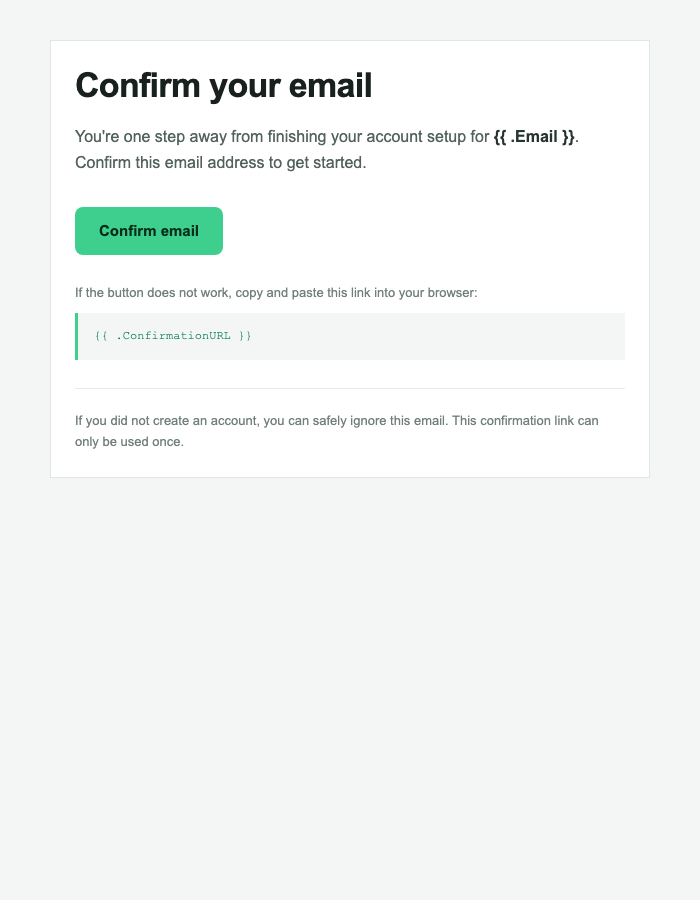
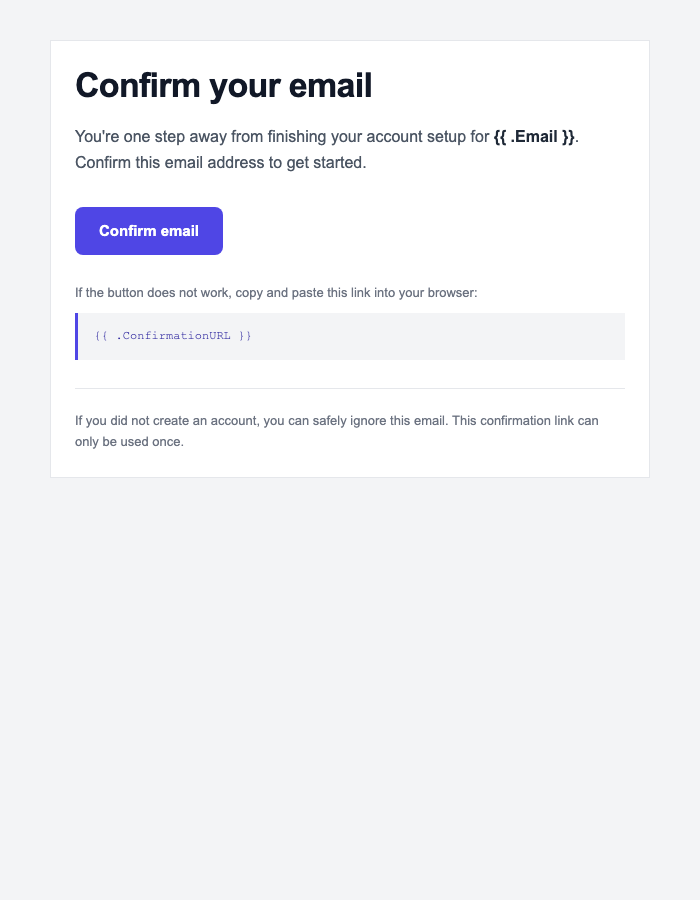
style: apply shared palette to Supabase auth templates

Changed region(s): [[0.09, 0.2178, 0.33, 0.3111], [0.09, 0.3422, 0.12, 0.4044]]

diff --git a/templates/supabase-reset-password.html b/templates/supabase-reset-password.html
@@ -58,12 +58,12 @@
     style="
       margin: 0;
       padding: 0;
-      background-color: #f3f6f5;
+      background-color: #f3f4f6;
       font-family: Arial, Helvetica, sans-serif;
       -webkit-text-size-adjust: 100%;
       -ms-text-size-adjust: 100%;
     "
-    bgcolor="#f3f6f5"
+    bgcolor="#f3f4f6"
   >
     <div
       style="
@@ -89,9 +89,9 @@
         width: 100% !important;
         min-width: 100%;
         margin: 0 auto;
-        background-color: #f3f6f5;
+        background-color: #f3f4f6;
       "
-      bgcolor="#f3f6f5"
+      bgcolor="#f3f4f6"
     >
       <tr>
         <td align="center" style="padding: 40px 16px">
@@ -113,7 +113,7 @@
               max-width: 520px;
               margin: 0 auto;
               background-color: #ffffff;
-              border: 1px solid #dfe7e3;
+              border: 1px solid #e5e7eb;
               border-radius: 16px;
               overflow: hidden;
             "
@@ -140,11 +140,11 @@
                       style="
                         width: 52px;
                         height: 52px;
-                        background-color: #e9faf2;
-                        border: 1px solid #b9ecd5;
+                        background-color: #eef2ff;
+                        border: 1px solid #c7d2fe;
                         border-radius: 50%;
                       "
-                      bgcolor="#e9faf2"
+                      bgcolor="#eef2ff"
                     >
                       <span
                         style="
@@ -152,7 +152,7 @@
                           width: 10px;
                           height: 10px;
                           margin: 0 auto;
-                          background-color: #16865a;
+                          background-color: #3730a3;
                           border-radius: 50%;
                           font-size: 0;
                           line-height: 0;
@@ -165,7 +165,7 @@
                           width: 4px;
                           height: 9px;
                           margin: -1px auto 0;
-                          background-color: #16865a;
+                          background-color: #3730a3;
                           font-size: 0;
                           line-height: 0;
                         "
@@ -178,7 +178,7 @@
                 <h1
                   style="
                     margin: 22px 0 0;
-                    color: #18211d;
+                    color: #111827;
                     font-family: Arial, Helvetica, sans-serif;
                     font-size: 30px;
                     font-weight: bold;
@@ -192,7 +192,7 @@
                 <p
                   style="
                     margin: 14px 0 0;
-                    color: #596861;
+                    color: #4b5563;
                     font-family: Arial, Helvetica, sans-serif;
                     font-size: 15px;
                     line-height: 1.6;
@@ -200,7 +200,7 @@
                   "
                 >
                   Reset requested for<br />
-                  <strong style="color: #26352e">{{ .Email }}</strong>
+                  <strong style="color: #1f2937">{{ .Email }}</strong>
                 </p>
               </td>
             </tr>
@@ -224,10 +224,10 @@
                     <td
                       width="100%"
                       align="center"
-                      bgcolor="#3ecf8e"
+                      bgcolor="#4f46e5"
                       style="
                         width: 100%;
-                        background-color: #3ecf8e;
+                        background-color: #4f46e5;
                         border-radius: 8px;
                       "
                     >
@@ -238,11 +238,11 @@
                           href="{{ .ConfirmationURL }}"
                           style="height: 50px; v-text-anchor: middle; width: 438px"
                           arcsize="16%"
-                          strokecolor="#3ecf8e"
-                          fillcolor="#3ecf8e"
+                          strokecolor="#4f46e5"
+                          fillcolor="#4f46e5"
                         >
                           <w:anchorlock />
-                          <center style="color: #052e1a; font-family: Arial, Helvetica, sans-serif; font-size: 15px; font-weight: bold">
+                          <center style="color: #ffffff; font-family: Arial, Helvetica, sans-serif; font-size: 15px; font-weight: bold">
                             Reset password
                           </center>
                         </v:roundrect>
@@ -257,7 +257,7 @@
                           min-width: 100%;
                           box-sizing: border-box;
                           padding: 16px 24px;
-                          color: #052e1a;
+                          color: #ffffff;
                           font-family: Arial, Helvetica, sans-serif;
                           font-size: 15px;
                           font-weight: bold;
@@ -279,7 +279,7 @@
                 <p
                   style="
                     margin: 0;
-                    color: #7a8981;
+                    color: #6b7280;
                     font-family: Arial, Helvetica, sans-serif;
                     font-size: 12px;
                     line-height: 1.55;
@@ -292,7 +292,7 @@
                 <p
                   style="
                     margin: 8px 0 0;
-                    color: #16865a;
+                    color: #3730a3;
                     font-family: 'Courier New', Courier, monospace;
                     font-size: 11px;
                     line-height: 1.55;
@@ -313,21 +313,21 @@
                   cellspacing="0"
                   border="0"
                   width="100%"
-                  style="width: 100%; border-top: 1px solid #e6ece9"
+                  style="width: 100%; border-top: 1px solid #e5e7eb"
                 >
                   <tr>
                     <td align="center" style="padding-top: 20px">
                       <p
                         style="
                           margin: 0;
-                          color: #718078;
+                          color: #6b7280;
                           font-family: Arial, Helvetica, sans-serif;
                           font-size: 13px;
                           line-height: 1.55;
                           text-align: center;
                         "
                       >
-                        <strong style="color: #53635b"
+                        <strong style="color: #4b5563"
                           >Didn&rsquo;t request this?</strong
                         ><br />
                         You can safely ignore this email. Your password will

diff --git a/templates/supabase-confirm-signup.html b/templates/supabase-confirm-signup.html
@@ -51,12 +51,12 @@
       margin: 0;
       padding: 0;
       width: 100% !important;
-      background-color: #f3f6f5;
+      background-color: #f3f4f6;
       font-family: Arial, Helvetica, sans-serif;
       -webkit-text-size-adjust: 100%;
       -ms-text-size-adjust: 100%;
     "
-    bgcolor="#f3f6f5"
+    bgcolor="#f3f4f6"
   >
     <div
       style="
@@ -83,9 +83,9 @@
         min-width: 100%;
         table-layout: fixed;
         margin: 0 auto;
-        background-color: #f3f6f5;
+        background-color: #f3f4f6;
       "
-      bgcolor="#f3f6f5"
+      bgcolor="#f3f4f6"
     >
       <tr>
         <td
@@ -111,7 +111,7 @@
               max-width: 600px;
               margin: 0 auto;
               background-color: #ffffff;
-              border: 1px solid #dfe7e3;
+              border: 1px solid #e5e7eb;
               overflow: hidden;
             "
             bgcolor="#ffffff"
@@ -121,7 +121,7 @@
                 <h1
                   style="
                     margin: 0;
-                    color: #18211d;
+                    color: #111827;
                     font-family: Arial, Helvetica, sans-serif;
                     font-size: 34px;
                     font-weight: bold;
@@ -134,14 +134,14 @@
                 <p
                   style="
                     margin: 18px 0 0;
-                    color: #53635b;
+                    color: #4b5563;
                     font-family: Arial, Helvetica, sans-serif;
                     font-size: 16px;
                     line-height: 1.65;
                   "
                 >
                   You're one step away from finishing your account setup for
-                  <strong style="color: #26352e">{{ .Email }}</strong>.
+                  <strong style="color: #1f2937">{{ .Email }}</strong>.
                   Confirm this email address to get started.
                 </p>
               </td>
@@ -158,9 +158,9 @@
                   <tr>
                     <td
                       align="center"
-                      bgcolor="#3ecf8e"
+                      bgcolor="#4f46e5"
                       style="
-                        background-color: #3ecf8e;
+                        background-color: #4f46e5;
                         border-radius: 8px;
                       "
                     >
@@ -171,11 +171,11 @@
                           href="{{ .ConfirmationURL }}"
                           style="height: 48px; v-text-anchor: middle; width: 190px"
                           arcsize="17%"
-                          strokecolor="#3ecf8e"
-                          fillcolor="#3ecf8e"
+                          strokecolor="#4f46e5"
+                          fillcolor="#4f46e5"
                         >
                           <w:anchorlock />
-                          <center style="color: #052e1a; font-family: Arial, Helvetica, sans-serif; font-size: 15px; font-weight: bold">
+                          <center style="color: #ffffff; font-family: Arial, Helvetica, sans-serif; font-size: 15px; font-weight: bold">
                             Confirm email
                           </center>
                         </v:roundrect>
@@ -186,7 +186,7 @@
                         style="
                           display: inline-block;
                           padding: 15px 24px;
-                          color: #052e1a;
+                          color: #ffffff;
                           font-family: Arial, Helvetica, sans-serif;
                           font-size: 15px;
                           font-weight: bold;
@@ -209,7 +209,7 @@
                 <p
                   style="
                     margin: 0;
-                    color: #718078;
+                    color: #6b7280;
                     font-family: Arial, Helvetica, sans-serif;
                     font-size: 13px;
                     line-height: 1.6;
@@ -222,9 +222,9 @@
                   style="
                     margin: 10px 0 0;
                     padding: 14px 16px;
-                    background-color: #f3f6f5;
-                    border-left: 3px solid #3ecf8e;
-                    color: #16865a;
+                    background-color: #f3f4f6;
+                    border-left: 3px solid #4f46e5;
+                    color: #3730a3;
                     font-family: 'Courier New', Courier, monospace;
                     font-size: 12px;
                     line-height: 1.55;
@@ -244,14 +244,14 @@
                   cellspacing="0"
                   border="0"
                   width="100%"
-                  style="width: 100%; border-top: 1px solid #e6ece9"
+                  style="width: 100%; border-top: 1px solid #e5e7eb"
                 >
                   <tr>
                     <td style="padding-top: 22px">
                       <p
                         style="
                           margin: 0;
-                          color: #718078;
+                          color: #6b7280;
                           font-family: Arial, Helvetica, sans-serif;
                           font-size: 13px;
                           line-height: 1.6;

diff --git a/test/customizer.test.js b/test/customizer.test.js
@@ -45,6 +45,7 @@ test("every color swatch exposes an initial pressed state", async () => {
 test("Supabase variables survive brand-color customization", async () => {
   const files = [
     "supabase-confirm-signup.html",
+    "supabase-magic-link.html",
     "supabase-reset-password.html",
   ];
 
@@ -55,14 +56,14 @@ test("Supabase variables survive brand-color customization", async () => {
     );
 
     const themed = rethemeHtml(html, [
-      { from: "#3ecf8e", to: "#4f46e5" },
+      { from: "#4f46e5", to: "#0ea5e9" },
     ]);
 
     assert.match(themed, /{{ \.ConfirmationURL }}/);
     assert.match(themed, /{{ \.Email }}/);
     assert.doesNotMatch(themed, /{{ \.SiteURL }}/);
-    assert.match(themed, /background-color: #4f46e5/);
-    assert.match(themed, /fillcolor="#4f46e5"/);
+    assert.match(themed, /background-color: #0ea5e9/);
+    assert.match(themed, /fillcolor="#0ea5e9"/);
   }
 });
 

diff --git a/preview.js b/preview.js
@@ -85,8 +85,8 @@ const templates = {
   "supabase-confirm-signup": {
     title: "Supabase Confirm Signup",
     file: "./templates/supabase-confirm-signup.html",
-    background: "#f3f6f5",
-    brand: "#3ecf8e",
+    background: "#f3f4f6",
+    brand: "#4f46e5",
     back: "./supabase.html",
     integration: "Supabase",
   },
@@ -109,8 +109,8 @@ const templates = {
   "supabase-reset-password": {
     title: "Supabase Reset Password",
     file: "./templates/supabase-reset-password.html",
-    background: "#f3f6f5",
-    brand: "#3ecf8e",
+    background: "#f3f4f6",
+    brand: "#4f46e5",
     back: "./supabase.html",
     integration: "Supabase",
   },
